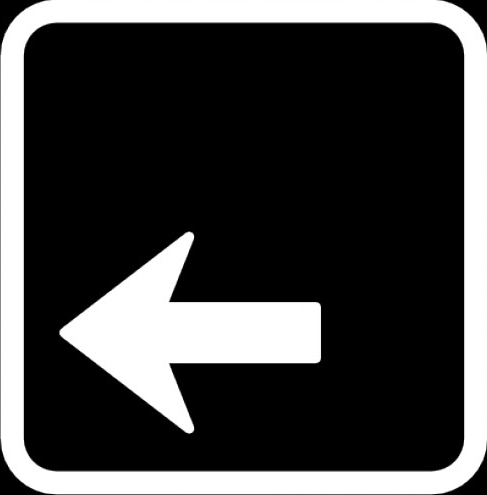
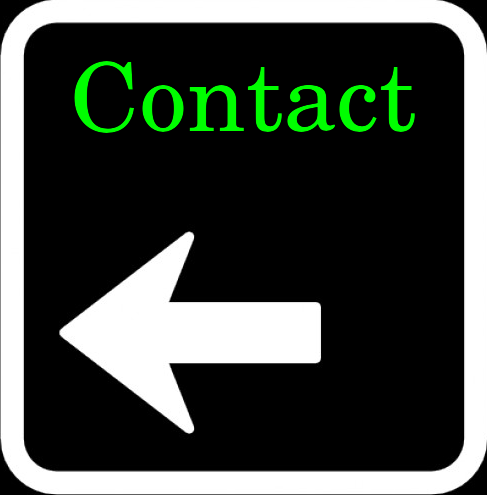
Remplacement des images des flêches par des nouvelles avec l'écriture directement dessus.

Changed region(s): [[0.154, 0.1212, 0.8624, 0.2727]]

diff --git a/style.css b/style.css
@@ -26,7 +26,7 @@
 
 /* Propriétés de mon body et de mon bloc page */
 #bloc_page {
-  width: 900px;
+  width: 1200px;
   margin: auto;
 }
 
@@ -90,3 +90,5 @@ nav img {
 nav div p {
   margin-left: 1px;
 }
+
+/* Position et configuration du texte du nav */
